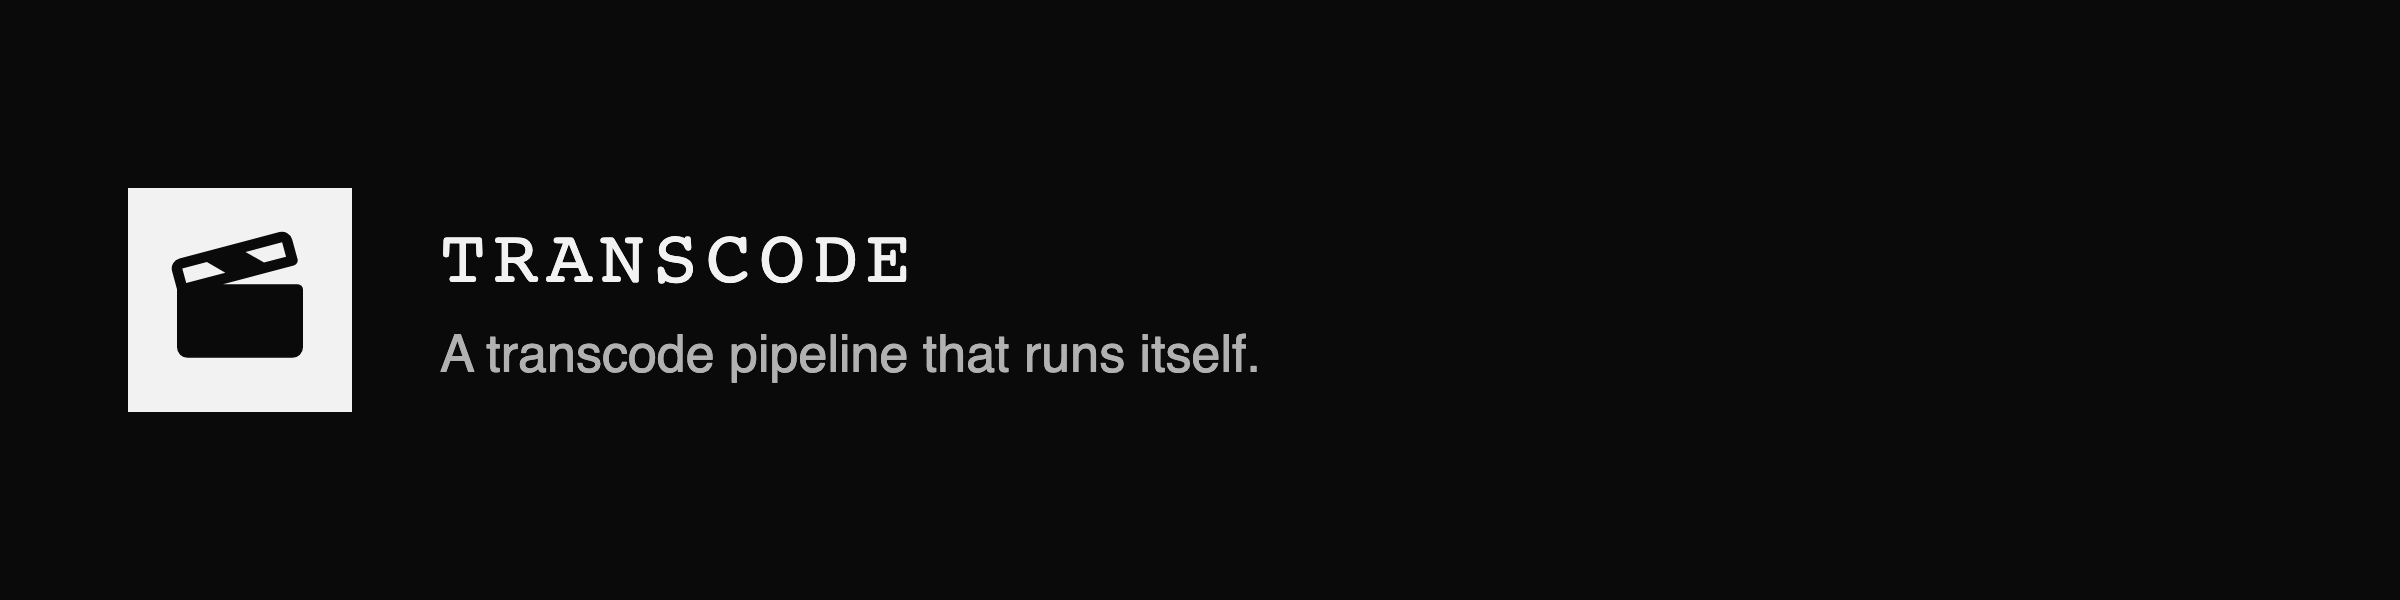
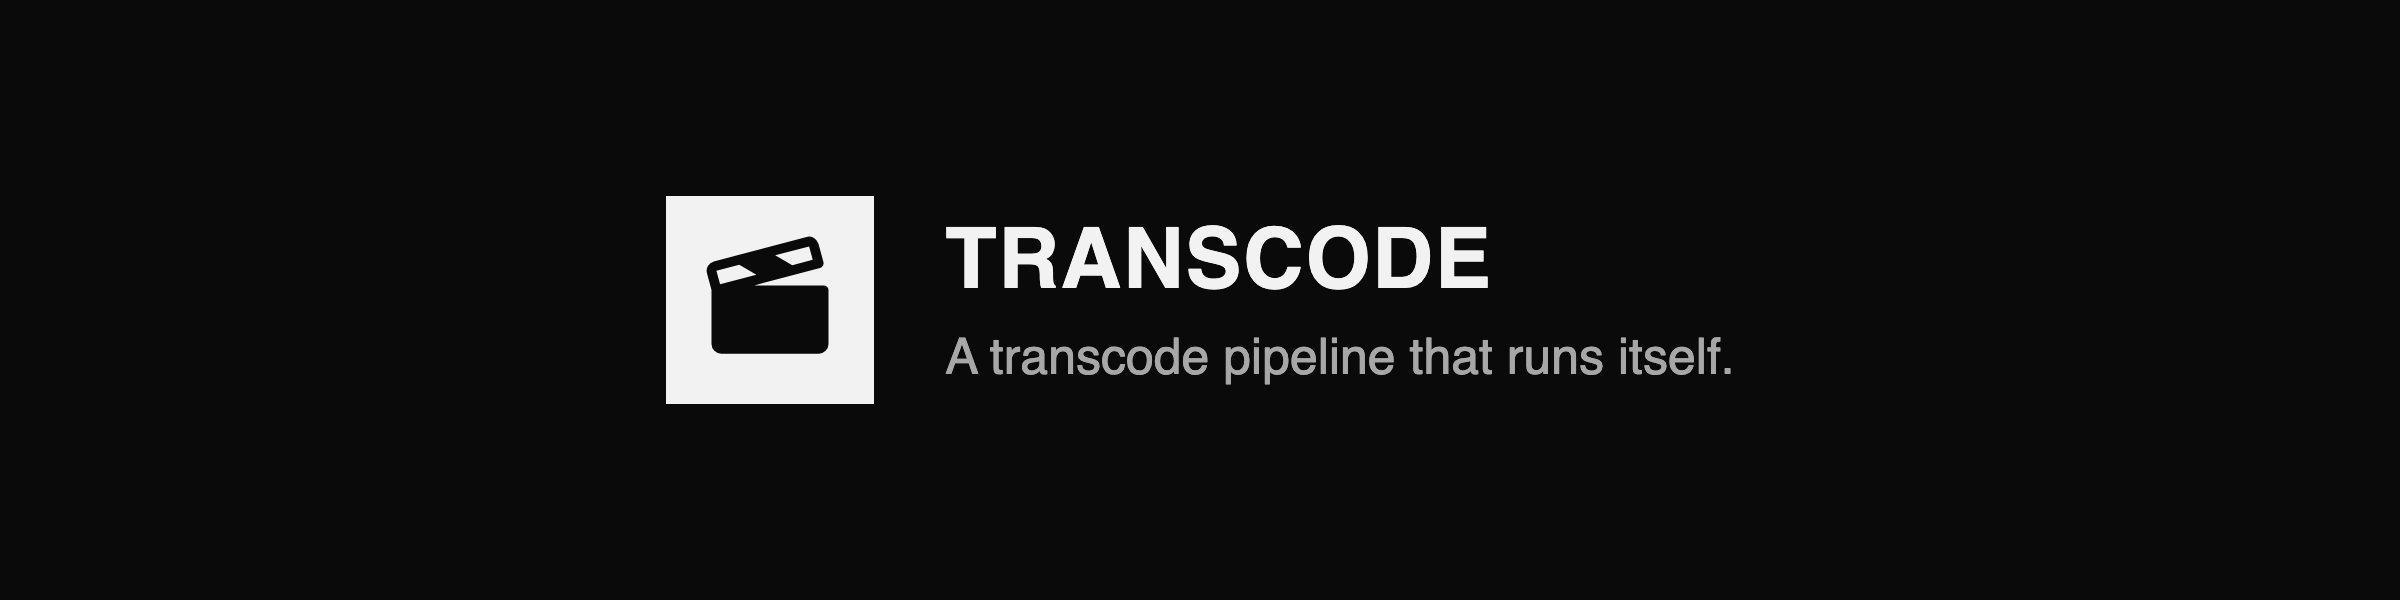
docs: the title page carries the overview, captured from a seeded queue
The old capture was withheld because it showed a real library path and title. This one runs the same binary against a copy whose file paths and library name are rewritten, so the picture proves the dashboard without naming a film. The no-screenshot exception goes with it, and the cover is the centred, mono-free banner.

Changed region(s): [[0.1875, 0.3, 0.7188, 0.69], [0.0312, 0.3, 0.1562, 0.69]]

diff --git a/README.md b/README.md
@@ -16,6 +16,11 @@ and every decision, and a **native worker** on the host that does the encoding
 with Apple's VideoToolbox. The container never mounts the media library. A
 component that cannot touch the films cannot damage them.
 
+<picture>
+  <source media="(prefers-color-scheme: dark)" srcset="docs/brand/screen-dark.png">
+  <img src="docs/brand/screen-light.png" alt="The overview: gigabytes returned to disk, the queue by decision, and the last five windows" width="1200">
+</picture>
+
 ## Run
 
 ```sh
